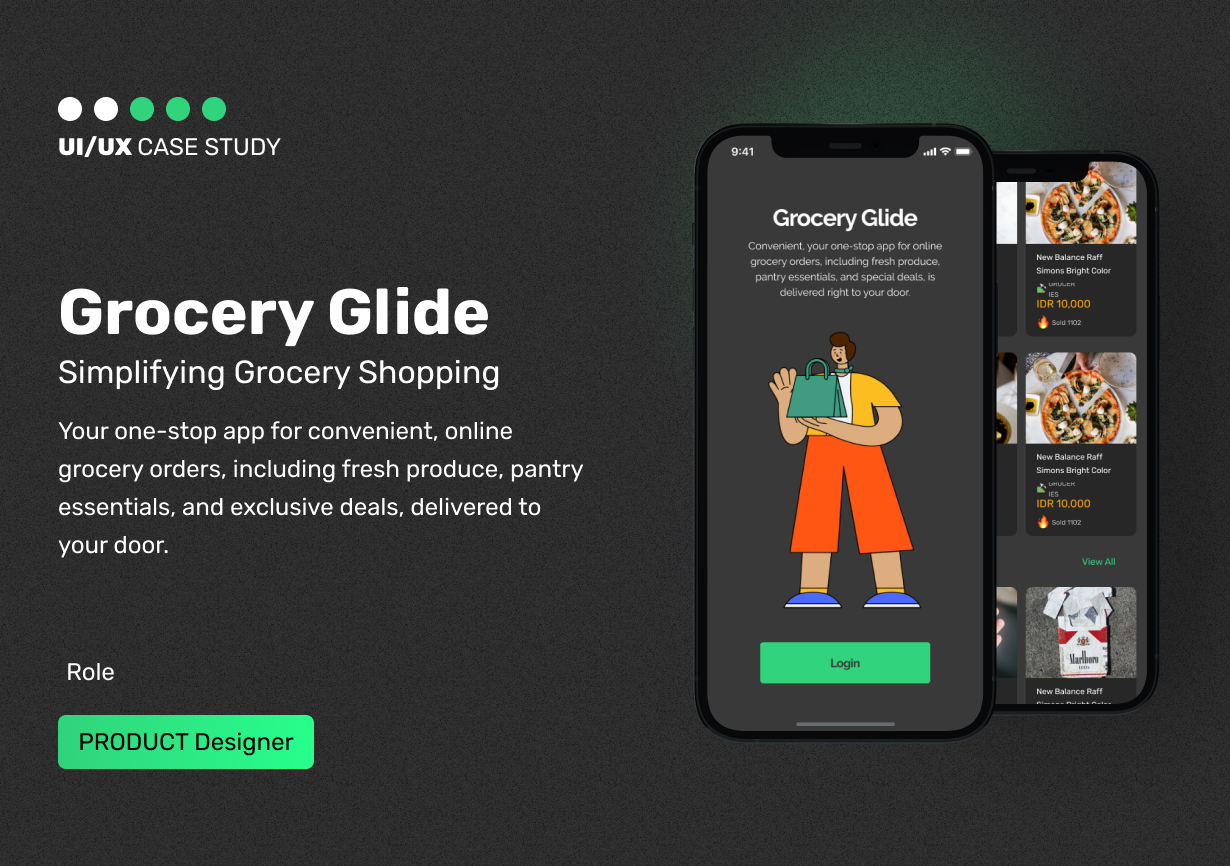
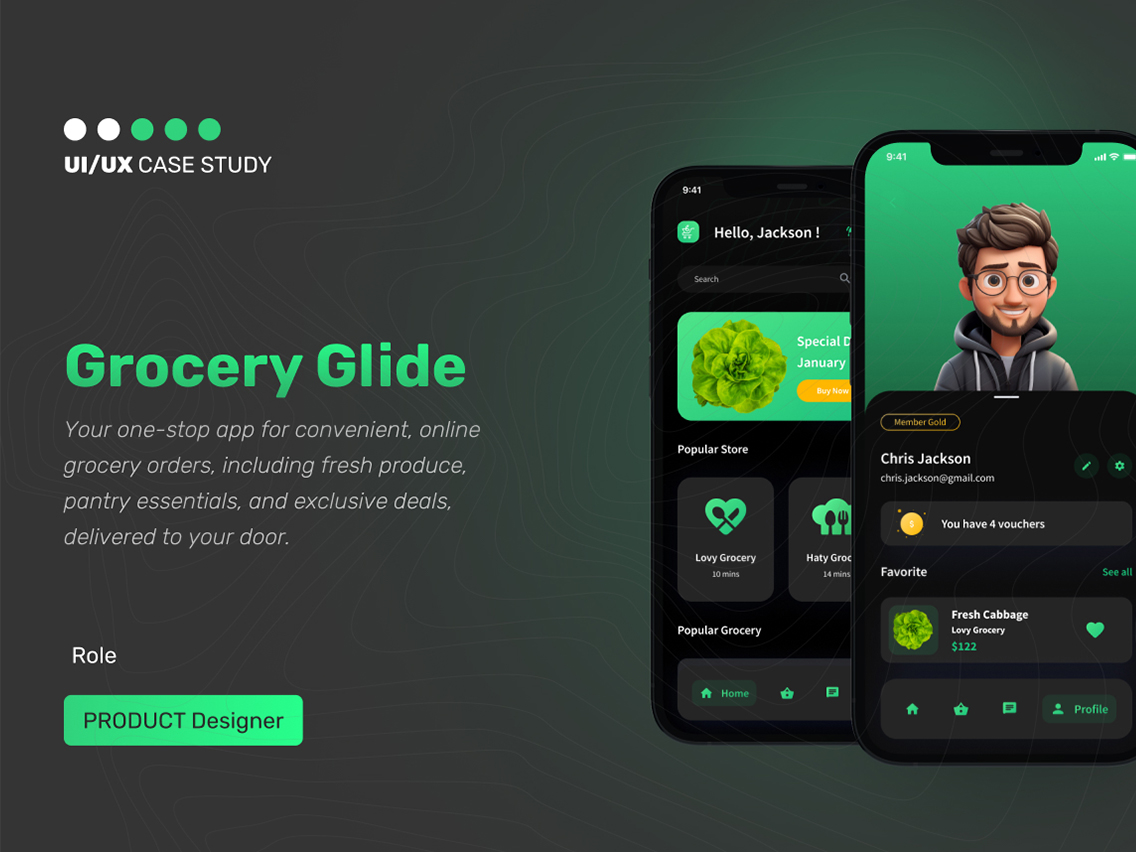
new push

diff --git a/groceryglide.html b/groceryglide.html
@@ -272,9 +272,9 @@
           </div>
         </div>
       </div>
-
-      <div class="product__preview">
-        <img class="product__pic js-parallax" data-scale="0.1" data-orientation="center" src="img/content/groceryglide.png" alt="">
+</br></br>
+      <div class="product__preview" style="display: block; margin-left: auto; margin-right: auto; width: 80%;">
+        <img class="product__pic js-parallax" data-scale="0.1" data-orientation="center" src="img/content/groceryglide_casestudy.jpg" alt="">
       </div>
 
       <div class="desc">
@@ -287,26 +287,26 @@
             </div>
           </div>
           <div class="desc__list">
-            <a class="desc__preview" href="https://play.google.com/store/apps/details?id=com.dailymoo&pcampaignid=web_share" data-aos="animation-translate-y" data-aos-delay="">
-              <img class="desc__pic" src="img/content/desc-pic-41.jpg" alt="">
+            <a class="desc__preview" data-aos="animation-translate-y" data-aos-delay="">
+              <img class="desc__pic" src="img/content/desc-pic-51.jpg" alt="">
               <div class="desc__zoom">
                 <img class="desc__pic" src="img/arrow-up-right.svg" alt="">
               </div>
             </a>
-            <a class="desc__preview" href="https://play.google.com/store/apps/details?id=com.dailymoo&pcampaignid=web_share" data-aos="animation-translate-y" data-aos-delay="200">
-              <img class="desc__pic" src="img/content/desc-pic-42.jpg" alt="">
+            <a class="desc__preview" href="" data-aos="animation-translate-y" data-aos-delay="200">
+              <img class="desc__pic" src="img/content/desc-pic-52.jpg" alt="">
               <div class="desc__zoom">
                 <img class="desc__pic" src="img/arrow-up-right.svg" alt="">
               </div>
             </a>
-            <a class="desc__preview" href="https://play.google.com/store/apps/details?id=com.dailymoo&pcampaignid=web_share" data-aos="animation-translate-y" data-aos-delay="">
-              <img class="desc__pic" src="img/content/desc-pic-43.jpg" alt="">
+            <a class="desc__preview" href="" data-aos="animation-translate-y" data-aos-delay="">
+              <img class="desc__pic" src="img/content/desc-pic-53.jpg" alt="">
               <div class="desc__zoom">
                 <img class="desc__pic" src="img/arrow-up-right.svg" alt="">
               </div>
             </a>
-            <a class="desc__preview" href="https://play.google.com/store/apps/details?id=com.dailymoo&pcampaignid=web_share" data-aos="animation-translate-y" data-aos-delay="200">
-              <img class="desc__pic" src="img/content/desc-pic-44.jpg" alt="">
+            <a class="desc__preview" href="" data-aos="animation-translate-y" data-aos-delay="200">
+              <img class="desc__pic" src="img/content/desc-pic-54.jpg" alt="">
               <div class="desc__zoom">
                 <img class="desc__pic" src="img/arrow-up-right.svg" alt="">
               </div>
@@ -414,25 +414,17 @@
                 <div class="contacts__wrap">
                   <div class="contacts__stage stage" data-aos="animation-scale-y">Say hello 👋</div>
                   <h2 class="contacts__title h1" data-aos="animation-scale-y" data-aos-delay="200">Let’s Work <br>Together. </h2>
-                  <div class="contacts__info" data-aos="animation-scale-y" data-aos-delay="400">I'm eager to meet and explore your project, as well as potential partnership opportunities.</div>
+                  <div class="contacts__info" data-aos="animation-scale-y" data-aos-delay="400">I’d love to meet up with you to discuss your venture, and potential collaborations.</div>
                 </div>
                 <div class="contacts__row">
                   <div class="contacts__details" data-aos="animation-translate-y">
-                    <a class="contacts__line" href="mailto:linkme.mario@gmai.com">
+                    <a class="contacts__line" href="mailto:linkme.mario@gmail.com">
                       <div class="contacts__icon">
                         <svg xmlns="http://www.w3.org/2000/svg" width="18" height="15" fill="none" viewBox="0 0 18 15">
                           <path fill-rule="evenodd" d="M2.422.267C1.244.267.289 1.222.289 2.4v9.956c0 1.178.955 2.133 2.133 2.133h12.8c1.178 0 2.133-.955 2.133-2.133V2.4c0-1.178-.955-2.133-2.133-2.133h-12.8zM1.711 2.4a.71.71 0 0 1 .711-.711h12.8a.71.71 0 0 1 .711.711v9.956a.71.71 0 0 1-.711.711h-12.8a.71.71 0 0 1-.711-.711V2.4zm2.636.919a.71.71 0 1 0-1.006 1.006l4.978 4.978a.71.71 0 0 0 1.006 0l4.978-4.978a.71.71 0 1 0-1.006-1.006L8.822 7.794 4.347 3.319zm1.422 5.689a.71.71 0 0 1 0 1.006l-1.422 1.422a.71.71 0 1 1-1.006-1.006l1.422-1.422a.71.71 0 0 1 1.006 0zm7.111 0a.71.71 0 1 0-1.006 1.006l1.422 1.422a.71.71 0 1 0 1.006-1.006l-1.422-1.422z" fill="#4c40f7"></path>
                         </svg>
                       </div>
                       <div class="contacts__text">linkme.mario@gmail.com</div>
-                    </a>
-                    <a class="contacts__line" href="tel:+919019469569">
-                      <div class="contacts__icon">
-                        <svg xmlns="http://www.w3.org/2000/svg" width="17" height="18" fill="none" viewBox="0 0 17 18">
-                          <path fill-rule="evenodd" d="M6.689 2.978a.71.71 0 0 1 .711-.711h7.111a.71.71 0 0 1 .711.711v4.267a.71.71 0 0 1-.711.711H8.822a.71.71 0 0 0-.318.075l-1.815.908V2.978zM7.4.844c-1.178 0-2.133.955-2.133 2.133v7.111a.71.71 0 0 0 1.029.636L8.99 9.378h5.521c1.178 0 2.133-.955 2.133-2.133V2.978c0-1.178-.955-2.133-2.133-2.133H7.4zM2.422 2.267C1.244 2.267.289 3.222.289 4.4v11.378c0 1.178.955 2.133 2.133 2.133h7.822c1.178 0 2.133-.955 2.133-2.133V10.8a.71.71 0 1 0-1.422 0v4.978a.71.71 0 0 1-.711.711H2.422a.71.71 0 0 1-.711-.711V4.4a.71.71 0 0 1 .711-.711h1.422a.71.71 0 1 0 0-1.422H2.422z" fill="#4c40f7"></path>
-                        </svg>
-                      </div>
-                      <div class="contacts__text">+91 9019 469 569</div>
                     </a>
                     <div class="contacts__line">
                       <div class="contacts__icon">
@@ -444,6 +436,14 @@
                         <p>Bengaluru, IN</p>
                       </div>
                     </div>
+                    <a class="contacts__line" href="https://wa.me/+919019469569/">
+                      <div class="contacts__icon">
+                        <svg xmlns="http://www.w3.org/2000/svg" width="17" height="18" fill="none" viewBox="0 0 17 18">
+                          <path fill-rule="evenodd" d="M6.689 2.978a.71.71 0 0 1 .711-.711h7.111a.71.71 0 0 1 .711.711v4.267a.71.71 0 0 1-.711.711H8.822a.71.71 0 0 0-.318.075l-1.815.908V2.978zM7.4.844c-1.178 0-2.133.955-2.133 2.133v7.111a.71.71 0 0 0 1.029.636L8.99 9.378h5.521c1.178 0 2.133-.955 2.133-2.133V2.978c0-1.178-.955-2.133-2.133-2.133H7.4zM2.422 2.267C1.244 2.267.289 3.222.289 4.4v11.378c0 1.178.955 2.133 2.133 2.133h7.822c1.178 0 2.133-.955 2.133-2.133V10.8a.71.71 0 1 0-1.422 0v4.978a.71.71 0 0 1-.711.711H2.422a.71.71 0 0 1-.711-.711V4.4a.71.71 0 0 1 .711-.711h1.422a.71.71 0 1 0 0-1.422H2.422z" fill="#4c40f7"></path>
+                        </svg>
+                      </div>
+                      <div class="contacts__text">+91 9019 469 569</div>
+                    </a>
                   </div>
                   <form class="contacts__form" data-aos="animation-translate-y" data-aos-delay="200">
                     <div class="contacts__field field">
@@ -497,8 +497,8 @@
                     <div class="contacts__btn">
                       <button class="btn btn_purple">
                         <span class="btn__text">Let’s Talk</span>
-                        <svg class="icon icon-arrow-right">
-                          <use xlink:href="img/sprite.svg#icon-arrow-right"></use>
+                        <svg xmlns="http://www.w3.org/2000/svg" width="22" height="16" fill="none" viewBox="0 0 22 16">
+                          <path fill-rule="evenodd" d="M14.707.293a1 1 0 0 0-1.414 0 1 1 0 0 0 0 1.414L18.586 7H1a1 1 0 1 0 0 2h17.586l-5.293 5.293a1 1 0 0 0 1.414 1.414l7-7c.183-.183.28-.419.292-.659L22 8m-.076-.383c-.049-.118-.121-.228-.217-.324l-7-7m7.217 7.324c.048.115.075.241.076.374z" fill="#fff"></path>
                         </svg>
                       </button>
                     </div>
@@ -508,22 +508,23 @@
                 <div class="contacts__social">
                   <div class="contacts__box" data-aos="animation-translate-y">
                     <a class="contacts__link" target="_blank" href="https://www.linkedin.com/in/pixelscientist/">
-                      <svg xmlns="http://www.w3.org/2000/svg" width="16" height="16" viewBox="0 0 16 16">
-                        <path fill="#9f9fa9" d="M12 0c2.056 0 4 1.944 4 4h0v8c0 2.056-1.944 4-4 4h0-8c-2.056 0-4-1.944-4-4h0V4c0-2.056 1.944-4 4-4h0zm0 2H4c-.935 0-2 1.065-2 2h0v8c0 .953 1.047 2 2 2h8c.935 0 2-1.065 2-2h0V4c0-.935-1.065-2-2-2h0zM8 4c2.206 0 4 1.794 4 4s-1.794 4-4 4-4-1.794-4-4 1.794-4 4-4zm0 2c-1.103 0-2 .897-2 2s.897 2 2 2 2-.897 2-2-.897-2-2-2zm4.145-3.068a.96.96 0 1 1 0 1.92.96.96 0 1 1 0-1.92z"></path>
+                      <svg xmlns="http://www.w3.org/2000/svg" width="16" height="16" viewBox="0 0 35 35">
+                        <path fill="#9f9fa9" d="M8.268 28h-5.805v-18.694h5.805zM5.362 6.756c-1.856 0-3.362-1.538-3.362-3.394s1.505-3.362 3.362-3.362 3.362 1.505 3.362 3.362c0 1.856-1.506 3.394-3.362 3.394zM29.994 28h-5.792v-9.1c0-2.169-0.044-4.95-3.018-4.95-3.018 0-3.481 2.356-3.481 4.794v9.256h-5.799v-18.694h5.567v2.55h0.081c0.775-1.469 2.668-3.019 5.492-3.019 5.875 0 6.955 3.869 6.955 8.894v10.269z"></path>
                       </svg>
                       <div class="contacts__text">LinkedIn</div>
                     </a>
                   </div>
                   <div class="contacts__box" data-aos="animation-translate-y" data-aos-delay="150">
                     <a class="contacts__link" target="_blank" href="https://www.behance.net/pixel_scientist">
-                      <svg xmlns="http://www.w3.org/2000/svg" width="16" height="16" viewBox="0 0 16 16">
-                        <path fill="#9f9fa9" d="M12 0c2.056 0 4 1.944 4 4h0v8c0 2.056-1.944 4-4 4h0-8c-2.056 0-4-1.944-4-4h0V4c0-2.056 1.944-4 4-4h0zm0 2H4c-.935 0-2 1.065-2 2h0v8c0 .953 1.047 2 2 2h8c.935 0 2-1.065 2-2h0V4c0-.935-1.065-2-2-2h0zM8 4c2.206 0 4 1.794 4 4s-1.794 4-4 4-4-1.794-4-4 1.794-4 4-4zm0 2c-1.103 0-2 .897-2 2s.897 2 2 2 2-.897 2-2-.897-2-2-2zm4.145-3.068a.96.96 0 1 1 0 1.92.96.96 0 1 1 0-1.92z"></path>
+                      <svg xmlns="http://www.w3.org/2000/svg" width="19" height="19" viewBox="0 0 16 16">
+                        <path fill="#9f9fa9" d="M4.654 3c.461 0 .887.035 1.278.14.39.07.711.216.996.391.286.176.497.426.641.747.14.32.216.711.216 1.137 0 .496-.106.922-.356 1.242-.215.32-.566.606-.997.817.606.176 1.067.496 1.348.922.281.426.461.957.461 1.563 0 .496-.105.922-.285 1.278a2.317 2.317 0 0 1-.782.887c-.32.215-.711.39-1.137.496a5.329 5.329 0 0 1-1.278.176L0 12.803V3h4.654zm-.285 3.978c.39 0 .71-.105.957-.285.246-.18.355-.497.355-.887 0-.216-.035-.426-.105-.567a.981.981 0 0 0-.32-.355 1.84 1.84 0 0 0-.461-.176c-.176-.035-.356-.035-.567-.035H2.17v2.31c0-.005 2.2-.005 2.2-.005zm.105 4.193c.215 0 .426-.035.606-.07.176-.035.356-.106.496-.216s.25-.215.356-.39c.07-.176.14-.391.14-.641 0-.496-.14-.852-.426-1.102-.285-.215-.676-.32-1.137-.32H2.17v2.734h2.305v.005zm6.858-.035c.286.285.711.426 1.278.426.39 0 .746-.106 1.032-.286.285-.215.46-.426.53-.64h1.74c-.286.851-.712 1.457-1.278 1.848-.566.355-1.243.566-2.06.566a4.135 4.135 0 0 1-1.527-.285 2.827 2.827 0 0 1-1.137-.782 2.851 2.851 0 0 1-.712-1.172c-.175-.461-.25-.957-.25-1.528 0-.531.07-1.032.25-1.493.18-.46.426-.852.747-1.207.32-.32.711-.606 1.137-.782a4.018 4.018 0 0 1 1.493-.285c.606 0 1.137.105 1.598.355.46.25.817.532 1.102.958.285.39.496.851.641 1.348.07.496.105.996.07 1.563h-5.15c0 .58.21 1.11.496 1.396zm2.24-3.732c-.25-.25-.642-.391-1.103-.391-.32 0-.566.07-.781.176-.215.105-.356.25-.496.39a.957.957 0 0 0-.25.497c-.036.175-.07.32-.07.46h3.196c-.07-.526-.25-.882-.497-1.132zm-3.127-3.728h3.978v.957h-3.978v-.957z" />
+                        </path>
                       </svg>
                       <div class="contacts__text">Behance</div>
                     </a>
                   </div>
                   <div class="contacts__box" data-aos="animation-translate-y" data-aos-delay="300">
-                    <a class="contacts__link" target="_blank" href="https://www.facebook.com/PixelScientist9">
+                    <a class="contacts__link" target="_blank" href="https://www.instagram.com/pixel.scientist/">
                       <svg xmlns="http://www.w3.org/2000/svg" width="16" height="16" viewBox="0 0 16 16">
                         <path fill="#9f9fa9" d="M12 0c2.056 0 4 1.944 4 4h0v8c0 2.056-1.944 4-4 4h0-8c-2.056 0-4-1.944-4-4h0V4c0-2.056 1.944-4 4-4h0zm0 2H4c-.935 0-2 1.065-2 2h0v8c0 .953 1.047 2 2 2h8c.935 0 2-1.065 2-2h0V4c0-.935-1.065-2-2-2h0zM8 4c2.206 0 4 1.794 4 4s-1.794 4-4 4-4-1.794-4-4 1.794-4 4-4zm0 2c-1.103 0-2 .897-2 2s.897 2 2 2 2-.897 2-2-.897-2-2-2zm4.145-3.068a.96.96 0 1 1 0 1.92.96.96 0 1 1 0-1.92z"></path>
                       </svg>
@@ -533,7 +534,10 @@
                   <div class="contacts__box" data-aos="animation-translate-y" data-aos-delay="450">
                     <a class="contacts__link" target="_blank" href="https://www.facebook.com/PixelScientist9">
                       <svg xmlns="http://www.w3.org/2000/svg" width="16" height="16" viewBox="0 0 16 16">
-                        <path fill="#9f9fa9" d="M12 0c2.056 0 4 1.944 4 4h0v8c0 2.056-1.944 4-4 4h0-8c-2.056 0-4-1.944-4-4h0V4c0-2.056 1.944-4 4-4h0zm0 2H4c-.935 0-2 1.065-2 2h0v8c0 .953 1.047 2 2 2h8c.935 0 2-1.065 2-2h0V4c0-.935-1.065-2-2-2h0zM8 4c2.206 0 4 1.794 4 4s-1.794 4-4 4-4-1.794-4-4 1.794-4 4-4zm0 2c-1.103 0-2 .897-2 2s.897 2 2 2 2-.897 2-2-.897-2-2-2zm4.145-3.068a.96.96 0 1 1 0 1.92.96.96 0 1 1 0-1.92z"></path>
+                        <path fill="#9f9fa9" d="M8.258,4.458c0-0.144,0.02-0.455,0.06-0.931c0.043-0.477,0.223-0.976,0.546-1.5c0.32-0.522,0.839-0.991,1.561-1.406
+                C11.144,0.208,12.183,0,13.539,0h3.82v4.163h-2.797c-0.277,0-0.535,0.104-0.768,0.309c-0.231,0.205-0.35,0.4-0.35,0.581v2.59h3.914
+                c-0.041,0.507-0.086,1-0.138,1.476l-0.155,1.258c-0.062,0.425-0.125,0.819-0.187,1.182h-3.462v11.542H8.258V11.558H5.742V7.643
+                h2.516V4.458z"></path>
                       </svg>
                       <div class="contacts__text">Facebook</div>
                     </a>
@@ -573,12 +577,11 @@
                   <div class="footer__info h4">Let’s make it an amazing one.</div>
                 </div>
                 <div class="footer__menu">
-                  <a class="footer__link" href="about.html">About Me</a>
                   <a class="footer__link" target="_blank" href="https://www.linkedin.com/in/pixelscientist/">Linkedin</a>
                   <a class="footer__link" target="_blank" href="https://www.facebook.com/PixelScientist9">Facebook</a>
                   <a class="footer__link" target="_blank" href="https://www.behance.net/pixel_scientist">Behance</a>
                   <a class="footer__link" target="_blank" href="https://www.instagram.com/pixel.scientist/">Instagram</a>
-                  <a class="footer__link" target="_blank" href="https://wa.me/+919019469569/">WhatsApp </p>
+                  <a class="footer__link" target="_blank" href="https://wa.me/+919019469569/">WhatsApp</p>
                   </a>
                 </div>
               </div>

diff --git a/index.html b/index.html
@@ -318,6 +318,16 @@
               <a class="cases__link" href="">Mobile</a>
             </div>
             <div class="cases__list js-owl" data-items-mobile-portrait="1" data-items-mobile-album="1" data-autoheight>
+              <a class="cases__item" data-aos="animation-translate-y" data-aos-delay="" href="groceryglide.html">
+                <div class="cases__preview">
+                  <img class="cases__pic" src="img/content/cases-pic-5.jpg" alt="">
+                  <div class="cases__box">UI/UX Case <br>Study </div>
+                </div>
+                <div class="cases__body">
+                  <h4 class="cases__info h4">Grocery Glide</h4>
+                  <div class="cases__text">Simplifying Grocery Shopping</div>
+                </div>
+              </a>
               <a class="cases__item" data-aos="animation-translate-y" data-aos-delay="" href="voguezly.html">
                 <div class="cases__preview">
                   <img class="cases__pic" src="img/content/cases-pic-1.jpg" alt="">
@@ -358,16 +368,7 @@
                   <div class="cases__text">Truly Pure Milky Moo</div>
                 </div>
               </a>
-              <a class="cases__item" data-aos="animation-translate-y" data-aos-delay="" href="groceryglide.html">
-                <div class="cases__preview">
-                  <img class="cases__pic" src="img/content/cases-pic-5.jpg" alt="">
-                  <div class="cases__box">Case <br>Study </div>
-                </div>
-                <div class="cases__body">
-                  <h4 class="cases__info h4">Grocery Glide</h4>
-                  <div class="cases__text">Simplifying Grocery Shopping</div>
-                </div>
-              </a>
+
               <a class="cases__item" data-aos="animation-translate-y" data-aos-delay="200" href="case.html">
                 <div class="cases__preview">
                   <img class="cases__pic" src="img/content/cases-pic-6.jpg" alt="">

diff --git a/work.html b/work.html
@@ -146,8 +146,6 @@
           </div>
         </div>
       </div>
-
-
       <div class="wrapper wrapper_gradient">
         <div class="cases cases_main" id="cases">
           <div class="cases__center center">
